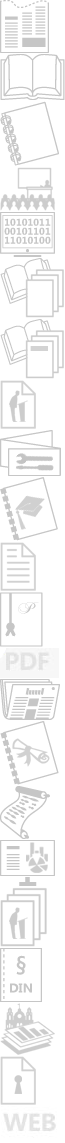
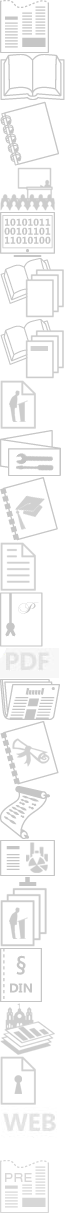
resolved #1983

Changed region(s): [[0.0, 0.0, 1.0, 1.0], [0.7692, 0.8268, 0.8, 0.8574]]

diff --git a/bibsonomy-webapp/src/main/webapp/resources/css/bootstrap-main.less b/bibsonomy-webapp/src/main/webapp/resources/css/bootstrap-main.less
@@ -779,7 +779,7 @@ span.patent					{background-position:0 -592px;width:43px;height:55px; 	  margin-
 span.pdf					{background-position:0 -648px;width:59px;height:30px;}
 span.periodical				{background-position:0 -679px;width:60px;height:41px;}
 span.phdthesis				{background-position: -2px -721px;width:59px;height:64px; width: 53px; margin-left: 2px; margin-top: 7px; }
-span.preprint				{background-position: 0  -540px;width:45px;height:52px;margin-left: 10px; margin-top: 10px;}
+span.preprint				{background-position: 0  -1160px;width: 58px; height:53px; margin-left: 3px; margin-top: 14px;}
 span.preamble				{background-position:0 -786px;width:50px;height:53px;}
 span.presentation			{background-position:0 -840px;width:55px;height:46px;}
 span.proceedings			{background-position:0 -887px;width:47px;height:60px;}
